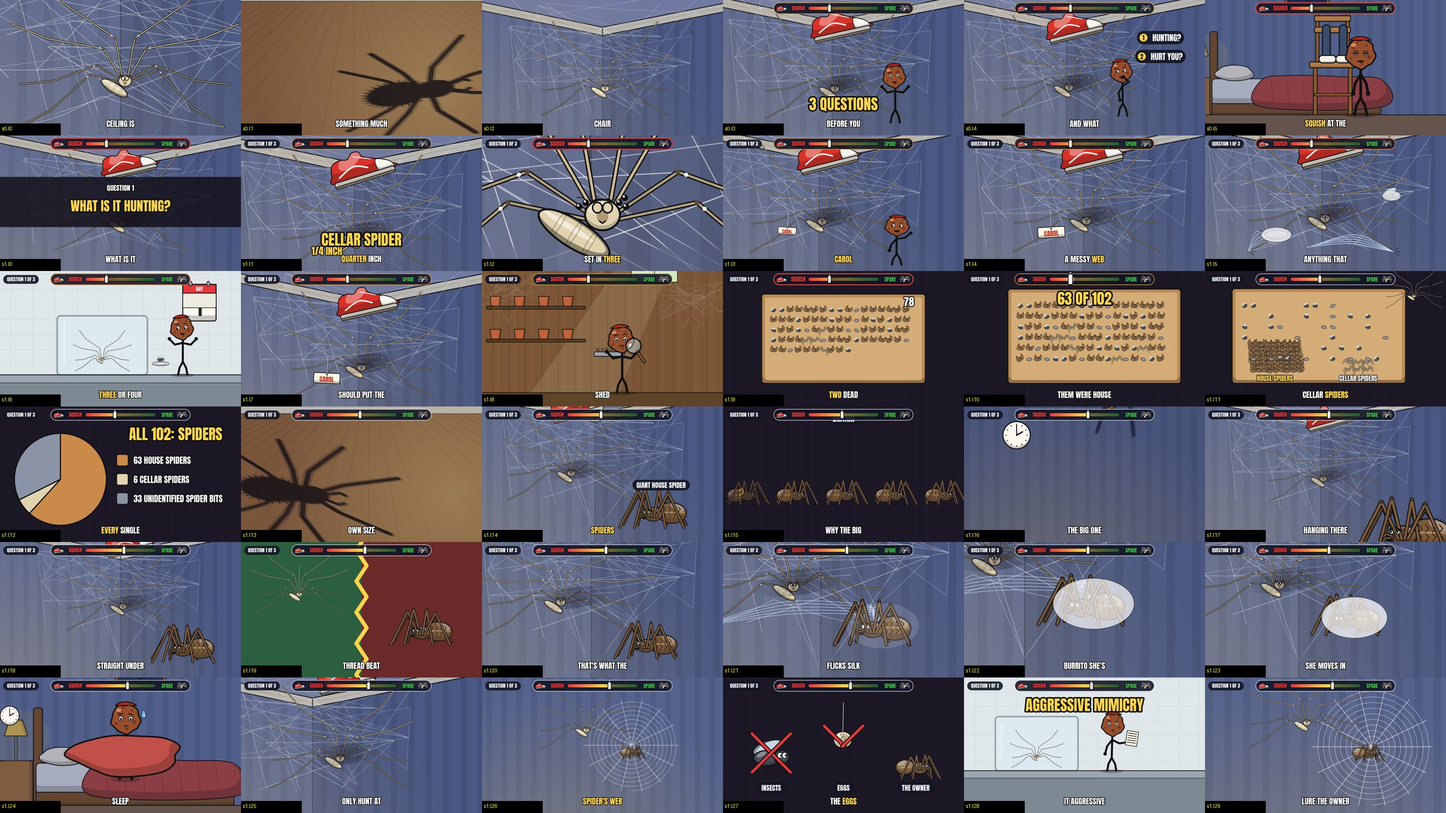
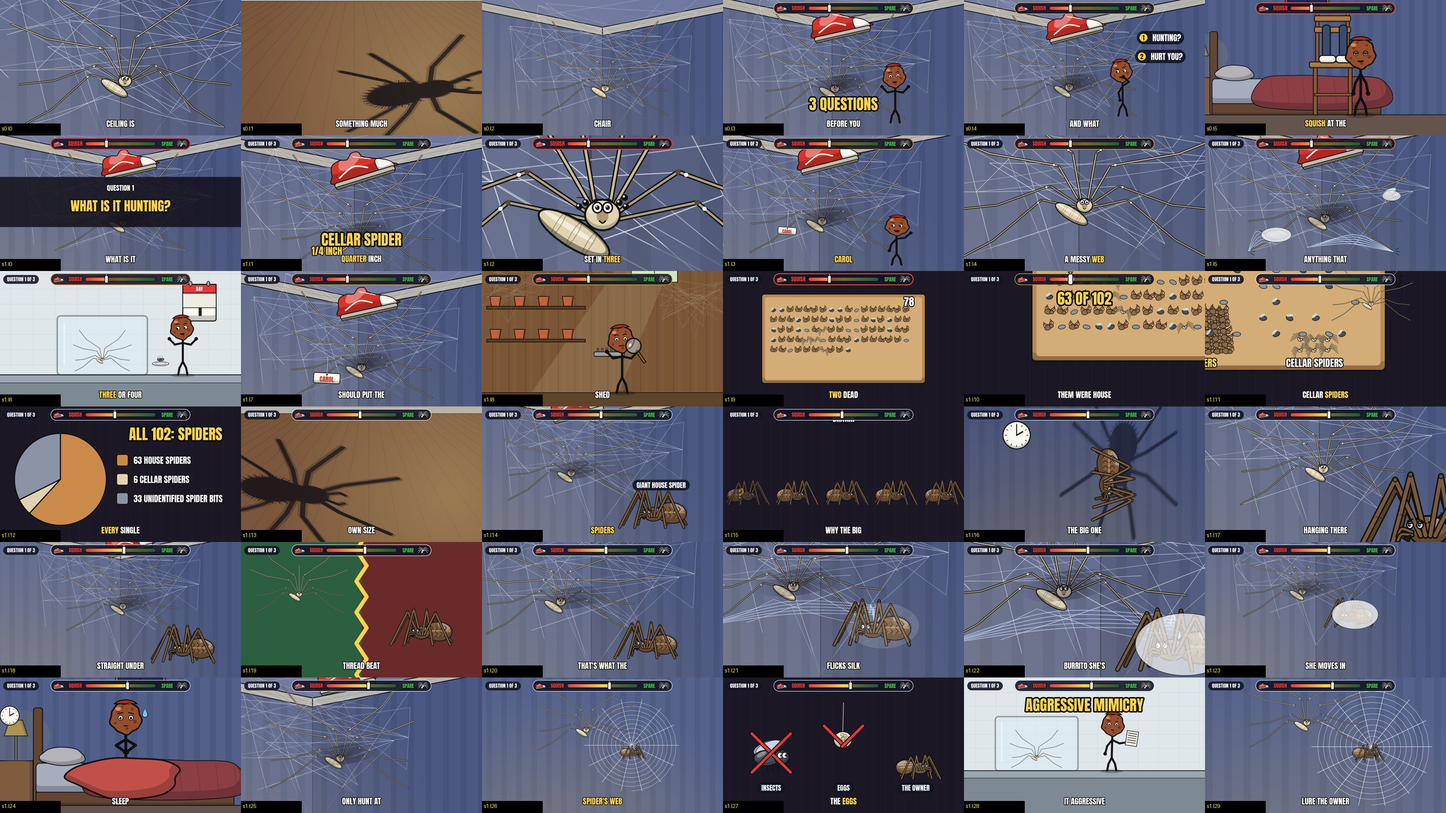
TikTok: 15 posts moved to 19:00 and 21:30 (11/11-11/18)
Claude-Session: https://claude.ai/code/session_0121N22LHjw2xJSLiMdFyw6P

diff --git a/skills/oh-meatball/tools/lf_gates.py b/skills/oh-meatball/tools/lf_gates.py
@@ -62,15 +62,19 @@ def beep_scan(x, sr):
     return events
 
 
-def shots(spec_path, work):
+def shots(spec_path, work, end_hold=0.0):
     sys.argv = ["x", spec_path, "/dev/null"]
     import drawn_keepkill as kk
     import drawn
     raw = json.load(open(spec_path))
+    if raw.get("ds"):   # a "Don't squish it" spec: register its overlays and music envelope too
+        import drawn_dontsquish  # noqa: F401
     with contextlib.redirect_stdout(io.StringIO()):
         beats, total = drawn.plan(kk.drawn_macros.expand(raw), work)
-    marks = sorted({0.0, total} | {round(b["t0"] + s["at"], 3) for b in beats for s in b["shots"]} |
-                   {round(b["t0"], 3) for b in beats})
+    # opt-in (--end-hold S): the end screen's last S s is a deliberate hold for YouTube's end-screen elements
+    end = total - end_hold if end_hold else total
+    marks = sorted({0.0, end} | {round(b["t0"] + s["at"], 3) for b in beats for s in b["shots"] if b["t0"] + s["at"] < end} |
+                   {round(b["t0"], 3) for b in beats if b["t0"] < end})
     gaps = [(b - a, a) for a, b in zip(marks, marks[1:])]
     first = beats[0]
     on = np.where(np.abs(first["audio"]) > 0.01)[0]
@@ -114,6 +118,9 @@ def main():
     ap.add_argument("--work", required=True)
     ap.add_argument("--spec", required=True)
     ap.add_argument("--sheets")
+    ap.add_argument("--end-hold", type=float, default=0.0, help="opt-in: ignore the end screen's last S s in the shots gate")
+    ap.add_argument("--lufs", type=float, help="opt-in: integrated loudness target (+-1 LU) and true peak < -1 dBFS")
+    ap.add_argument("--max-mb", type=float, help="opt-in: file size limit in MB")
     a = ap.parse_args()
     ok = True
     w, h, dur = probe(a.mp4)
@@ -123,7 +130,20 @@ def main():
     ev = beep_scan(x, sr)
     print(f"beep scan   {len(ev)} at 2.5 kHz  {'PASS' if not ev else 'FAIL ' + str(ev[:10])}")
     ok &= not ev
-    (gap, at), total, fv, _ = shots(a.spec, a.work)
+    if a.lufs is not None:
+        r = subprocess.run(["ffmpeg", "-v", "info", "-i", a.mp4, "-af", "ebur128=peak=true", "-f", "null", "-"],
+                           capture_output=True, text=True).stderr.split("Summary:")[-1]
+        import re
+        li = float(re.search(r"I:\s+(-?[\d.]+) LUFS", r).group(1))
+        tp = float(re.search(r"Peak:\s+(-?[\d.]+) dBFS", r).group(1))
+        good = abs(li - a.lufs) <= 1.0 and tp < -1.0
+        print(f"loudness    {li:.1f} LUFS, true peak {tp:.1f} dBFS  {'PASS' if good else 'FAIL'}")
+        ok &= good
+    if a.max_mb is not None:
+        mb = os.path.getsize(a.mp4) / 1e6
+        print(f"file size   {mb:.1f} MB  {'PASS' if mb < a.max_mb else 'FAIL'}")
+        ok &= mb < a.max_mb
+    (gap, at), total, fv, _ = shots(a.spec, a.work, a.end_hold)
     print(f"first voice {fv:.3f} s  {'PASS' if fv is not None and fv < 0.2 else 'FAIL'}")
     ok &= fv is not None and fv < 0.2
     print(f"shots       longest framing {gap:.2f} s at {int(at // 60)}:{at % 60:05.2f}  {'PASS' if gap <= 4.0 else 'FAIL'}")

diff --git a/skills/oh-meatball/tools/drawn_dontsquish.py b/skills/oh-meatball/tools/drawn_dontsquish.py
@@ -1017,7 +1017,24 @@ def render(spec_path, out, rng=None, work=None):
     sp = os.path.join(work, "drawn_spec.json")
     json.dump(ds, open(sp, "w"), indent=1)
     sys.argv = ["drawn.py", sp, out, "--work", work]
+    os.environ.setdefault("CRF", "27")   # fits a ~8 min episode under 95 MB
     drawn.main()
+    loudness(out)
+
+
+def loudness(path, target=-14.0, tp=-1.5):
+    """Two-pass EBU R128: measure the encoded mix, then re-encode only the audio with the measured values
+    (linear mode) so the episode lands on `target` LUFS with true peak under `tp`; the video stream is copied."""
+    r = subprocess.run(["ffmpeg", "-hide_banner", "-i", path, "-af", f"loudnorm=I={target}:TP={tp}:LRA=11:print_format=json",
+                        "-f", "null", "-"], capture_output=True, text=True).stderr
+    m = json.loads(r[r.rindex("{"):r.rindex("}") + 1])
+    af = (f"loudnorm=I={target}:TP={tp}:LRA=11:measured_I={m['input_i']}:measured_TP={m['input_tp']}:"
+          f"measured_LRA={m['input_lra']}:measured_thresh={m['input_thresh']}:offset={m['target_offset']}:linear=true")
+    tmp = path + ".ln.mp4"
+    subprocess.run(["ffmpeg", "-v", "error", "-y", "-i", path, "-map", "0:v", "-map", "0:a", "-c:v", "copy", "-af", af,
+                    "-ar", "48000", "-c:a", "aac", "-b:a", "160k", "-movflags", "+faststart", tmp], check=True)
+    os.replace(tmp, path)
+    print(f"loudness: measured {m['input_i']} LUFS / {m['input_tp']} dBTP -> {target} LUFS", flush=True)
 
 
 def stills(spec_path, out, at, work):

diff --git a/skills/oh-meatball/tools/drawn_ds_shots.py b/skills/oh-meatball/tools/drawn_ds_shots.py
@@ -563,4 +563,21 @@ def extend(T):
                    [actor("shadow", "ds_shadow", [1900, 1000], 1.25, {"a": 0.62}, rot=-8,
                           moves=[{"at": "comes|40%", "dur": 1.6, "pos": [500, 860], "linear": True}])],
                    sfx=["thud@start|40%", "step@comes|60%"])
+    # ------------------------------------------------------------------------------------------ fixes (contact sheet 2)
+    for a in T["s3.l10"]["actors"]:
+        a["s"] = 0.6
+        a["p"]["lw"] = 3.0
+    T["s3.l7"]["actors"][0].update(s=1.5, pos=[700, 700])
+    T["s3.l7"].update(cam=[700, 560, 1.0], to=[700, 560, 1.05])
+    for a in T["s3.l38"]["actors"]:
+        if a["id"] == "sc1":
+            a["s"] = 1.3
+        if a["id"] == "hero":
+            a["s"] = 0.24
+            a["pos"] = [-500, -260]
+            a["moves"] = [{"at": "carried|40%", "dur": 0.6, "pos": [0, -420], "hop": 180},
+                          {"at": "around|70%", "dur": 0.6, "pos": [500, -260], "hop": 180}]
+    T["s5.l5"]["actors"][0]["moves"] = [{"at": "big|15%", "dur": 2.0, "pos": [500, 860], "linear": True}]
+    T["s5.l7"]["actors"][0].update(s=1.0, rot=-12)
+    T["s5.l7"]["actors"][0]["p"]["a"] = 0.78
     return T

diff --git a/skills/oh-meatball/tools/drawn_ds_art.py b/skills/oh-meatball/tools/drawn_ds_art.py
@@ -290,7 +290,7 @@ def ds_web(ctx, t, p):
         pts.append((x, max(-0.4 * abs(x), y)))
     anchors = [(-W * 1.1 * g, -0.42 * W * g), (W * 1.1 * g, -0.42 * W * g), (-W * 0.6 * g, -0.25 * W * g),
                (W * 0.6 * g, -0.25 * W * g), (0, Hh * 1.1 * g), (-W * 0.9 * g, Hh * 0.5 * g), (W * 0.9 * g, Hh * 0.6 * g)]
-    lw = 1.6 + 2.2 * dust
+    lw = (1.6 + 2.2 * dust) * p.get("lw", 1.0)
     import cairo as _c
     ctx.push_group()
     for k in range(int(p.get("n", 52))):
@@ -1474,7 +1474,7 @@ def ds_rumor(ctx, t, p):
     for half in (-1, 1):
         ctx.save()
         dx = half * 60 * cr
-        dy = 500 * cr * cr
+        dy = 240 * cr * cr
         ctx.translate(dx, dy)
         ctx.rotate(half * 0.5 * cr)
         ctx.save()
@@ -1718,7 +1718,7 @@ def ds_calgrid(ctx, t, p):
             if idx % 10 == 3 and idx / 28 < u:
                 ctx.save()
                 ctx.translate(x, y + 50)
-                ctx.scale(0.16, 0.16)
+                ctx.scale(0.24, 0.24)
                 _vacuum(ctx, t, {})
                 ctx.restore()
     n = max(0, int(round(6 * (1 - u))))
